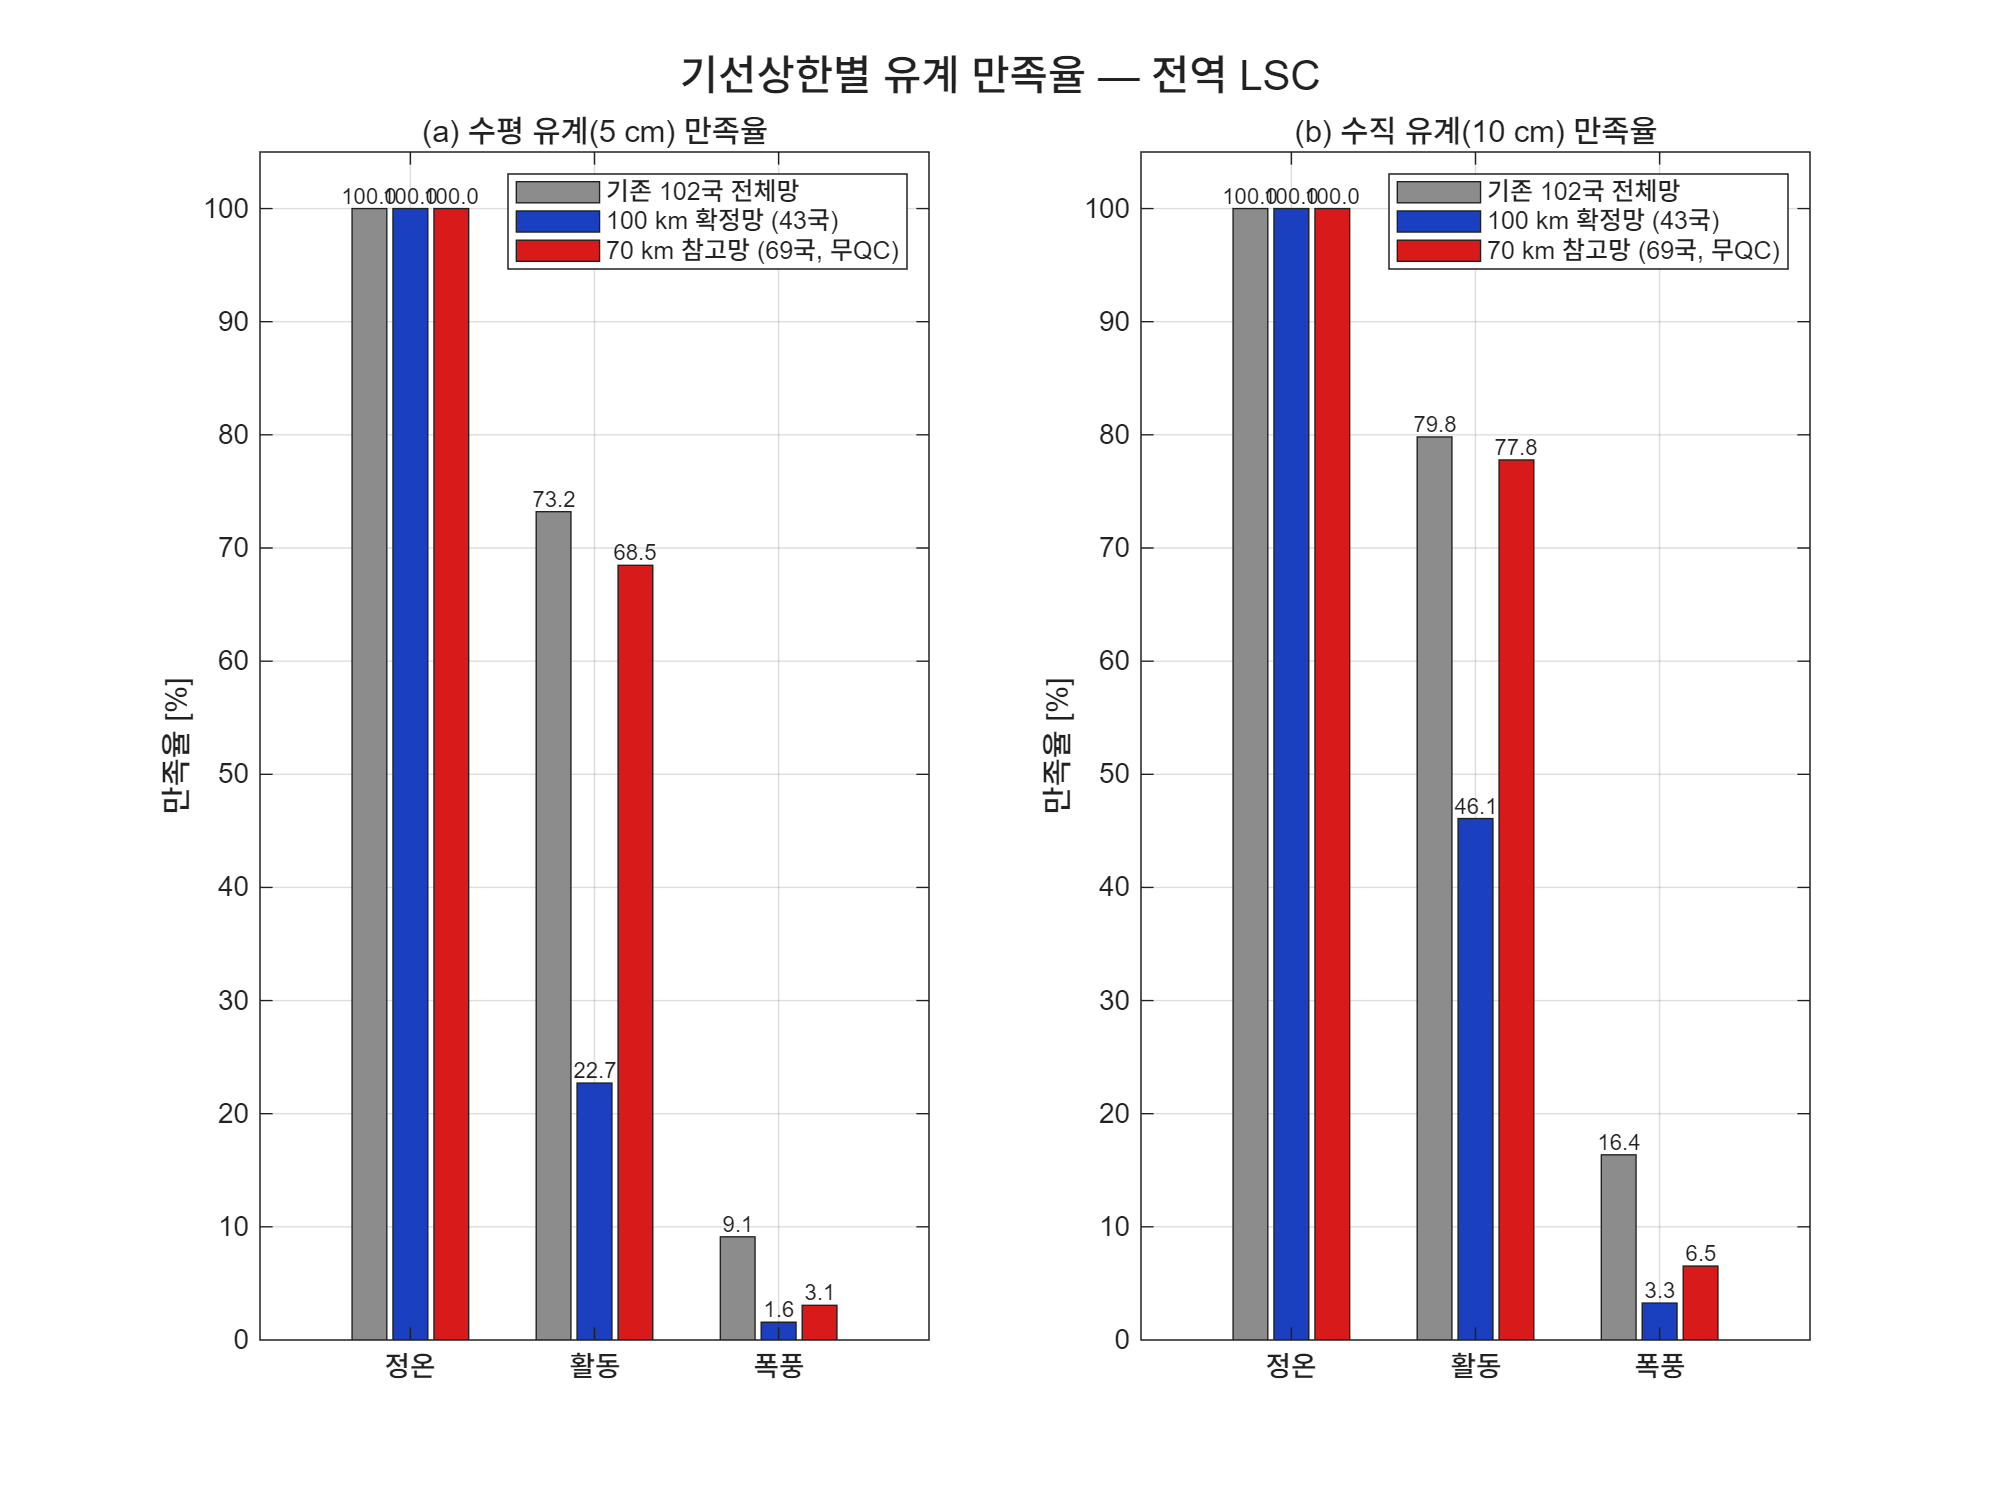
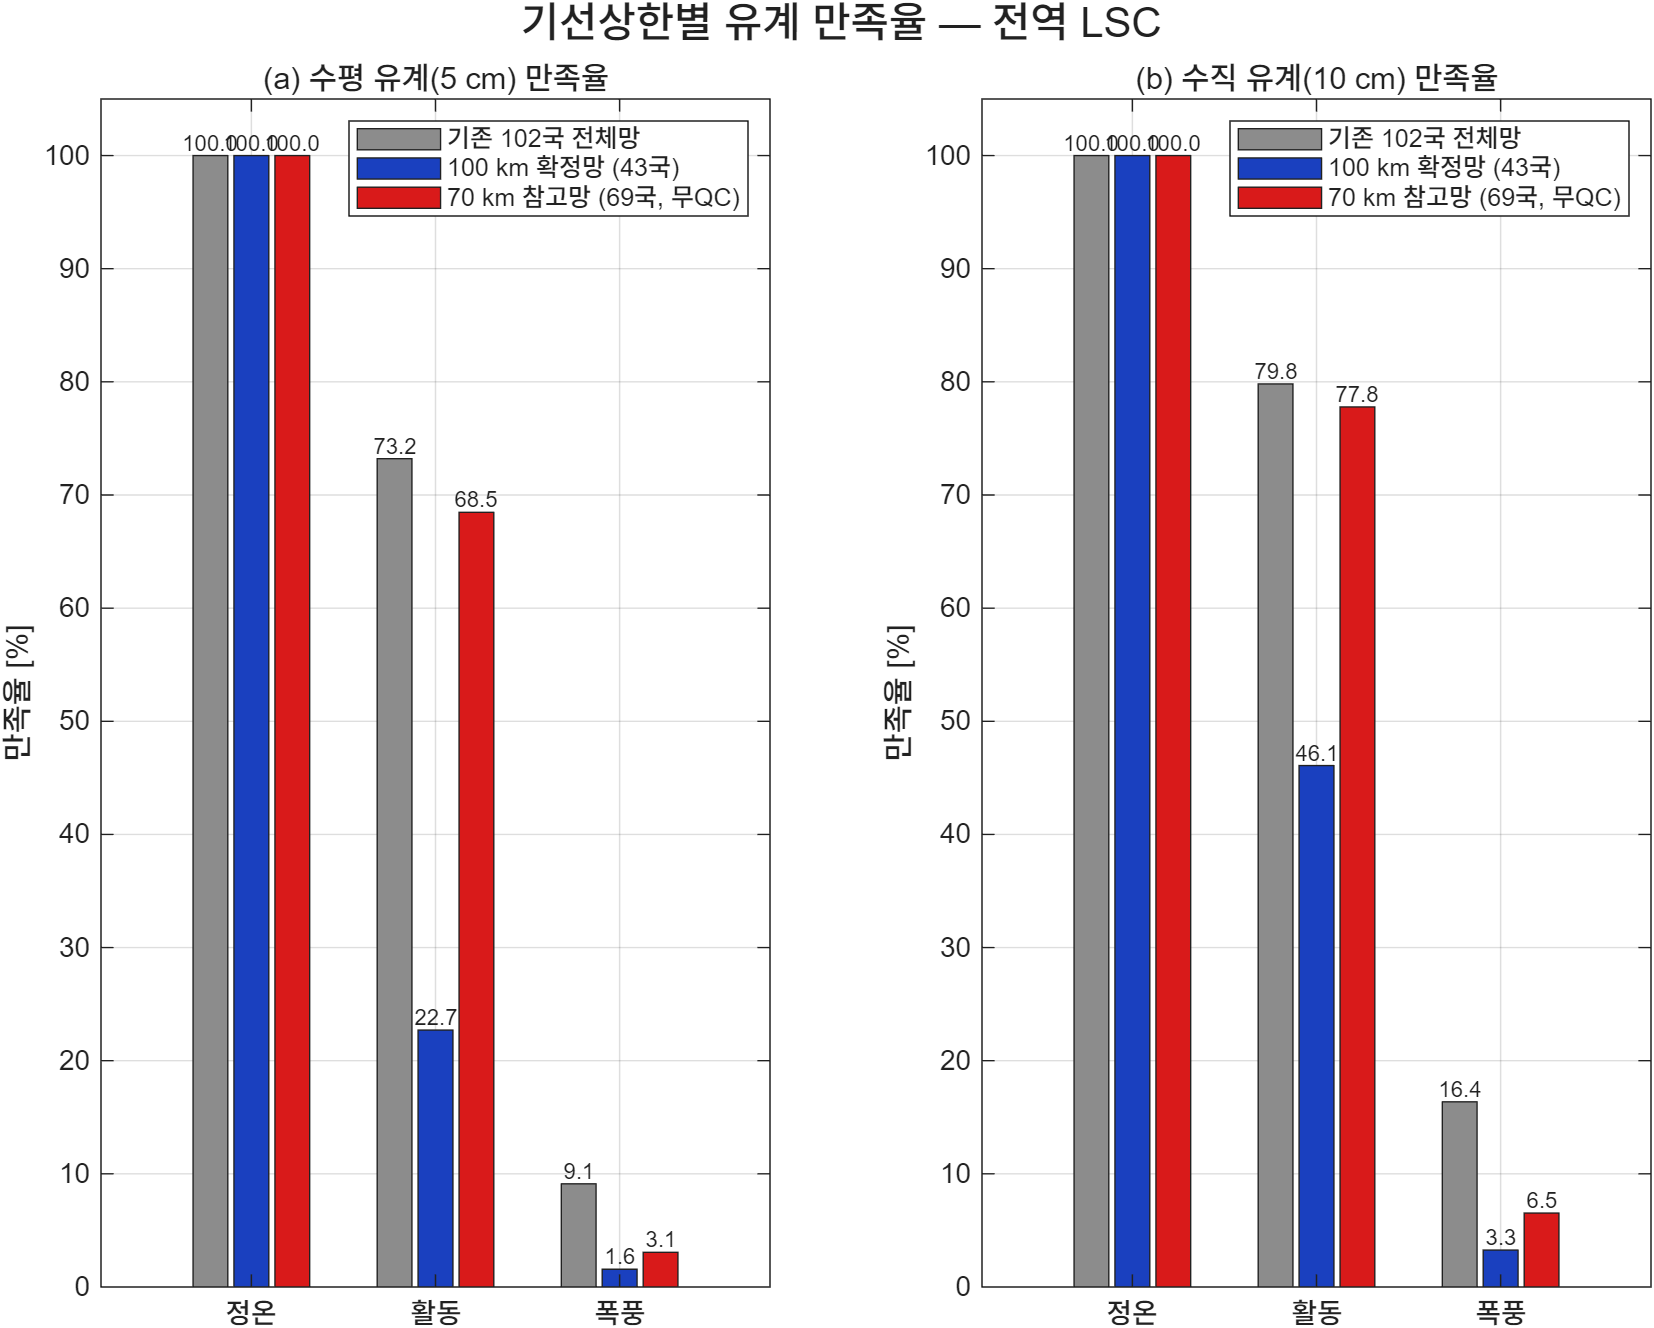
figure 저장 여백 축소: print -> exportgraphics 전환 (내용 기준 자동 크롭)
- 대상 16곳: run_pipeline·run_validation(_lsc)·run_stats·run_plot_qc_status·
  run_plot_cors·run_plot_integrated (ppt_*·ilp_flowchart는 캔버스 통일 유지 목적으로 제외)
- 현행 데이터 figure 재렌더: 01_망설계·04 cors_overlay·05 _70 사본·03 b70 세트·etc allref 2종
- 배치 실행에 -noFigureWindows 적용 (figure 창 팝업 방지)

Claude-Session: https://claude.ai/code/session_01UYcRwiTz1XWkLPAKJQoUpf

diff --git a/2차/망최적화/run_validation.m b/2차/망최적화/run_validation.m
@@ -178,7 +178,7 @@ stairs_cdf(Gnew.triMeanKm(common), 'r-');
 grid on; xlabel('소속 삼각형 평균 기선장 [km]'); ylabel('누적 확률');
 title('(b) 소속 삼각형 평균 기선장 누적분포');
 legend({'기존 망 (99개소)', sprintf('최적화 망 (%d개소)', nnz(isRef))}, 'Location', 'northeast');
-print(fig, fullfile(figDir, 'validation_geometry.png'), '-dpng', '-r200');
+exportgraphics(fig, fullfile(figDir, 'validation_geometry.png'), 'Resolution', 200);
 fprintf('figure 저장: validation_geometry.png\n');
 
 fprintf('검증 1단계(기하) 완료\n');
@@ -294,7 +294,7 @@ xline(VER_LIM, 'k--', sprintf('요구 성능 %g cm', VER_LIM));
 grid on; xlabel('수직 측위오차 예측치 (95%) [cm]'); ylabel('누적 확률'); xlim([0 40]);
 title('(b) 수직 측위오차 (95%) 누적분포');
 legend({'기존 망 (99개소)', sprintf('최적화 망 (%d개소)', nnz(isRef))}, 'Location', 'southeast');
-print(fig2, fullfile(figDir, 'validation_error.png'), '-dpng', '-r200');
+exportgraphics(fig2, fullfile(figDir, 'validation_error.png'), 'Resolution', 200);
 
 % ---- figure: 수평 95% 오차 지도 (성능 heat map — colorbar 필요 예외) ----
 % 지도류 figure는 한 figure에 지도 1개 규격 — 망별 개별 파일, clim 공유로 비교 가능
@@ -321,7 +321,7 @@ for k = 1:2
     geolimits(gx, [33 39], [125 131]);
     clim(gx, cl); colorbar(gx);
     title(gx, {'수평 측위오차 예측치 (95%) [cm] — 기준국 선택: 반경 150 km (▲: 기준국)', mapTtl{k}});
-    print(fig3, fullfile(figDir, mapFile{k}), '-dpng', '-r200');
+    exportgraphics(fig3, fullfile(figDir, mapFile{k}), 'Resolution', 200);
 end
 
 % ---- figure: 요구 성능 미달 지점 지도, 규칙별 (만족=회색, 수직만 초과=주황, 수평 초과=빨강) ----
@@ -402,6 +402,6 @@ function plot_exceed_fig(figFile, Eold, Enew, glat, glon, latAll, lonAll, isRef,
         title(gx, {sprintf('요구 성능 미달 지점 분포 — 기준국 선택: %s', ruleLabel), netName});
         legend(gx, {'요구 성능 만족', sprintf('수직 한계 초과 (>%g cm)', verLim), ...
                     sprintf('수평 한계 초과 (>%g cm)', horLim), '기준국'}, 'Location', 'northeast');
-        print(fig, fullfile(fDir, [fBase sfx{k} fExt]), '-dpng', '-r200');
+        exportgraphics(fig, fullfile(fDir, [fBase sfx{k} fExt]), 'Resolution', 200);
     end
 end

diff --git a/2차/망최적화/run_validation_lsc.m b/2차/망최적화/run_validation_lsc.m
@@ -231,7 +231,7 @@ for pnl = 1:2
     ylabel('누적 확률'); grid on;
     legend(hh, lbl, 'Location', 'southeast');
 end
-print(fig1, fullfile(figDir, 'validation_lsc_cdf.png'), '-dpng', '-r200');
+exportgraphics(fig1, fullfile(figDir, 'validation_lsc_cdf.png'), 'Resolution', 200);
 
 %% 8) figure 2 — 수평 95% 오차 지도 (설계 시나리오, heat map — colorbar 예외)
 % 지도류 figure는 한 figure에 지도 1개 규격 — 망별 개별 파일, clim 공유로 비교 가능
@@ -261,7 +261,7 @@ for k = 1:2
     clim(gx, cl); colorbar(gx);
     title(gx, {sprintf('수평 측위오차 예측치 (95%%) [cm] — 전역 LSC, %s 시나리오', ...
         SCEN(DESIGN).name), mapTtl{k}});
-    print(fig2, fullfile(figDir, mapFile{k}), '-dpng', '-r200');
+    exportgraphics(fig2, fullfile(figDir, mapFile{k}), 'Resolution', 200);
 end
 
 %% 9) figure 3 — 요구 성능 미달 지점 지도 (설계 시나리오, 전역 LSC)
@@ -292,7 +292,7 @@ for pnl = 1:2
     end
 end
 sgtitle('전리층 활동도 시나리오별 유계 만족율 — 전역 LSC');
-print(fig4, fullfile(figDir, 'validation_lsc_scen.png'), '-dpng', '-r200');
+exportgraphics(fig4, fullfile(figDir, 'validation_lsc_scen.png'), 'Resolution', 200);
 
 fprintf('figure 저장: validation_lsc_cdf/scen.png + map/exceed 각 _old/_new (지도 1개/figure)\n');
 fprintf('검증 v2(LSC) 완료\n');
@@ -360,6 +360,6 @@ function plot_exceed_fig(figFile, Eold, Enew, glat, glon, latAll, lonAll, isRef,
         title(gx, {sprintf('요구 성능 미달 지점 분포 — %s', ruleLabel), netName});
         legend(gx, {'요구 성능 만족', sprintf('수직 한계 초과 (>%g cm)', verLim), ...
                     sprintf('수평 한계 초과 (>%g cm)', horLim), '기준국'}, 'Location', 'northeast');
-        print(fig, fullfile(fDir, [fBase sfx{k} fExt]), '-dpng', '-r200');
+        exportgraphics(fig, fullfile(fDir, [fBase sfx{k} fExt]), 'Resolution', 200);
     end
 end

diff --git a/2차/망최적화/run_pipeline.m b/2차/망최적화/run_pipeline.m
@@ -100,9 +100,9 @@ title('감시가능 면적 비교 — 그리디 · ILP · LP 상한');
 text(1:3, vals, compose('%.0f',vals), 'HorizontalAlignment','center','VerticalAlignment','bottom');
 
 drawnow;
-print(fG, fullfile(figDir, 'Greedy_plot.png'), '-dpng', '-r200');
-print(fI, fullfile(figDir, 'ILP_plot.png'), '-dpng', '-r200');
-print(fB, fullfile(figDir, 'area_compare.png'), '-dpng', '-r200');
+exportgraphics(fG, fullfile(figDir, 'Greedy_plot.png'), 'Resolution', 200);   % 여백 자동 크롭
+exportgraphics(fI, fullfile(figDir, 'ILP_plot.png'), 'Resolution', 200);
+exportgraphics(fB, fullfile(figDir, 'area_compare.png'), 'Resolution', 200);
 fprintf('그림 저장: %s (Greedy_plot / ILP_plot / area_compare)\n', figDir);
 
 fprintf('통합 파이프라인 완료: %.1f s\n', toc(tAll));

diff --git a/2차/망최적화/plots/run_plot_integrated.m b/2차/망최적화/plots/run_plot_integrated.m
@@ -95,7 +95,7 @@ geolimits(gx, [33 39], [125 132]); hold(gx,'off');
 figSave = fullfile(optDir,'result_fig','04_외부상설감시국');
 if ~isfolder(figSave); mkdir(figSave); end
 drawnow;
-print(gcf, fullfile(figSave, sprintf('integrated_coverage_%s.png', R.method)), '-dpng', '-r200');
+exportgraphics(gcf, fullfile(figSave, sprintf('integrated_coverage_%s.png', R.method)), 'Resolution', 200);
 fprintf('그림 저장: %s\n', fullfile(figSave, sprintf('integrated_coverage_%s.png', R.method)));
 
 % ======================================================================

diff --git a/2차/망최적화/plots/run_plot_cors.m b/2차/망최적화/plots/run_plot_cors.m
@@ -140,5 +140,5 @@ geolimits(gx, [33 39], [125 132]); hold(gx,'off');
 figSave = fullfile(optDir,'result_fig','04_외부상설감시국');
 if ~isfolder(figSave); mkdir(figSave); end
 drawnow;
-print(gcf, fullfile(figSave, sprintf('cors_overlay_%s.png', R.method)), '-dpng', '-r200');
+exportgraphics(gcf, fullfile(figSave, sprintf('cors_overlay_%s.png', R.method)), 'Resolution', 200);
 fprintf('그림 저장: %s\n', fullfile(figSave, sprintf('cors_overlay_%s.png', R.method)));

diff --git a/2차/망최적화/plots/run_plot_qc_status.m b/2차/망최적화/plots/run_plot_qc_status.m
@@ -118,5 +118,5 @@ geolimits(gx, [33 39], [125 132]); hold(gx, 'off');
 figSave = fullfile(optDir, 'result_fig', '01_망설계');
 if ~isfolder(figSave); mkdir(figSave); end
 drawnow;
-print(fig, fullfile(figSave, 'qc_station_status.png'), '-dpng', '-r200');
+exportgraphics(fig, fullfile(figSave, 'qc_station_status.png'), 'Resolution', 200);
 fprintf('그림 저장: %s\n', fullfile(figSave, 'qc_station_status.png'));
